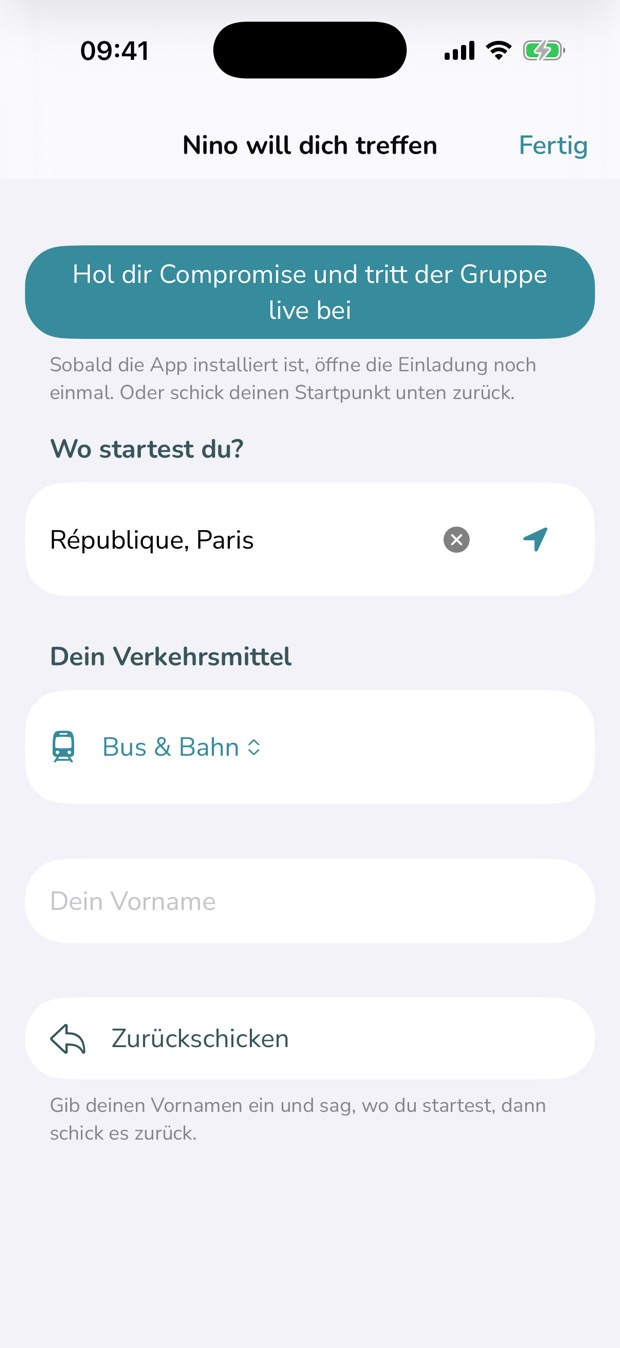
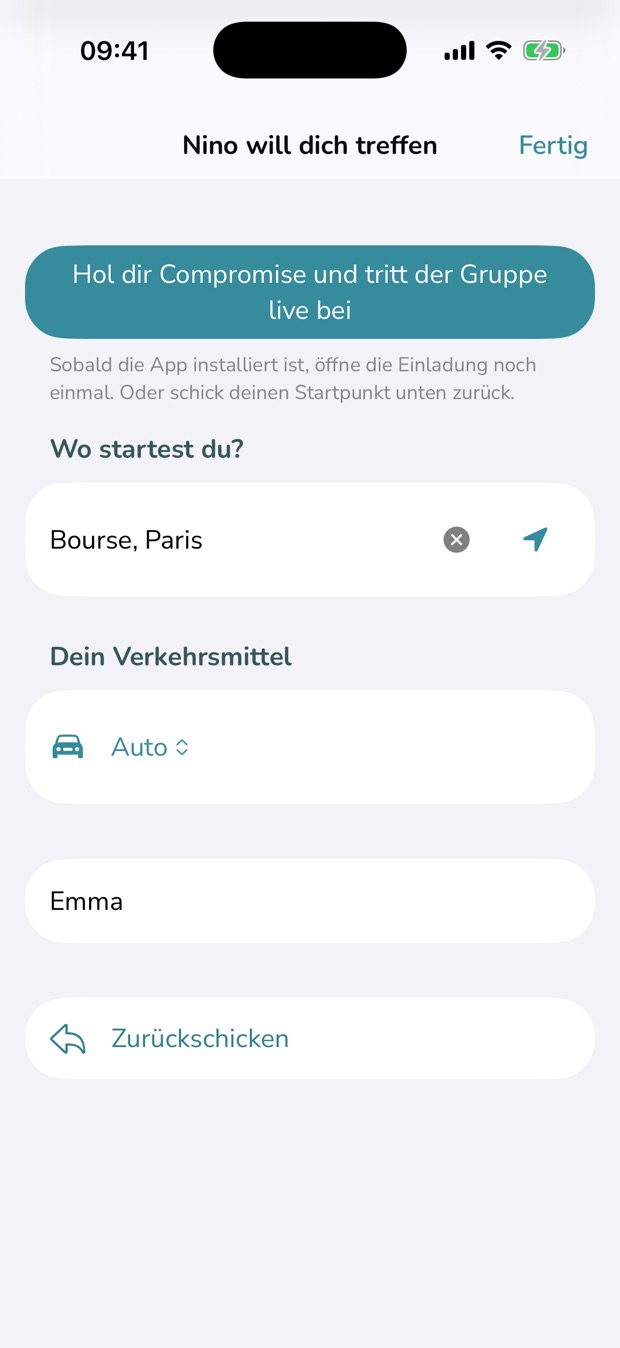
Groups (option D): Lisa joins with the app, Emma answers from the link
The app phone shows the "Lisa joined the group." notification over the
four people; the form phone shows Emma's answer (Bourse, by car). A
short muted line under each phone says what happened, in every language.

Claude-Session: https://claude.ai/code/session_01DPYBVo6XJBHKjMg9L24xGH

diff --git a/fr/index.html b/fr/index.html
@@ -181,8 +181,8 @@ layout: null
       <div class="visual" id="shot-group">
         <!-- Screenshot slots: img/fr/group-live.jpg, 620 × 1182 (the app, cropped), and img/fr/group.jpg, 620 × 1348 (the App Clip form, shown to the same height) -->
         <div class="phones">
-          <figure><figcaption>Avec l’appli</figcaption><div class="phone"><div class="screen short"><div class="island"></div><img class="shot" src="/img/fr/group-live.jpg" width="620" height="1182" alt="L’app avec un groupe synchronisé via iCloud, quatre personnes et la première adresse" onload="this.closest('.visual').classList.add('has-shot')" onerror="this.remove()"></div></div></figure>
-          <figure><figcaption>Sans l’appli</figcaption><div class="phone"><div class="screen short"><div class="island"></div><img class="shot" src="/img/fr/group.jpg" width="620" height="1348" alt="Le formulaire qu’un ami voit depuis le lien d’invitation, sans l’app" onload="this.closest('.visual').classList.add('has-shot')" onerror="this.remove()"></div></div></figure>
+          <figure><figcaption>Avec l’appli</figcaption><div class="phone"><div class="screen short"><div class="island"></div><img class="shot" src="/img/fr/group-live.jpg" width="620" height="1182" alt="L’app : une notification dit que Lisa a rejoint le groupe, au-dessus des quatre personnes et du groupe synchronisé via iCloud" onload="this.closest('.visual').classList.add('has-shot')" onerror="this.remove()"></div></div><p class="phone-note">Lisa a rejoint le groupe ; son départ s’affiche sur chaque téléphone.</p></figure>
+          <figure><figcaption>Sans l’appli</figcaption><div class="phone"><div class="screen short"><div class="island"></div><img class="shot" src="/img/fr/group.jpg" width="620" height="1348" alt="Le formulaire qu’un ami voit depuis le lien, rempli par Emma : son départ et son moyen de transport" onload="this.closest('.visual').classList.add('has-shot')" onerror="this.remove()"></div></div><p class="phone-note">Emma a répondu depuis le lien.</p></figure>
         </div>
         <div class="panel group" role="img" aria-label="Illustration : un lien d’invitation envoyé à un groupe ; Nino a rejoint avec l’app, Léa a répondu depuis le lien.">
           <div class="invite"><svg viewBox="0 0 24 24" fill="none" stroke="currentColor" stroke-width="2" stroke-linecap="round" aria-hidden="true"><path d="M10 14a4 4 0 0 0 5.7 0l3-3a4 4 0 0 0-5.7-5.7l-1 1"/><path d="M14 10a4 4 0 0 0-5.7 0l-3 3a4 4 0 0 0 5.7 5.7l1-1"/></svg><span>Apéro vendredi · lien d’invitation</span></div>

diff --git a/de/index.html b/de/index.html
@@ -181,8 +181,8 @@ layout: null
       <div class="visual" id="shot-group">
         <!-- Screenshot slots: img/de/group-live.jpg, 620 × 1182 (the app, cropped), and img/de/group.jpg, 620 × 1348 (the App Clip form, shown to the same height) -->
         <div class="phones">
-          <figure><figcaption>Mit der App</figcaption><div class="phone"><div class="screen short"><div class="island"></div><img class="shot" src="/img/de/group-live.jpg" width="620" height="1182" alt="Die App mit einer über iCloud synchronisierten Gruppe, vier Personen und dem ersten Treffpunkt" onload="this.closest('.visual').classList.add('has-shot')" onerror="this.remove()"></div></div></figure>
-          <figure><figcaption>Ohne die App</figcaption><div class="phone"><div class="screen short"><div class="island"></div><img class="shot" src="/img/de/group.jpg" width="620" height="1348" alt="Das Formular, das Freunde über den Einladungslink sehen, ohne die App" onload="this.closest('.visual').classList.add('has-shot')" onerror="this.remove()"></div></div></figure>
+          <figure><figcaption>Mit der App</figcaption><div class="phone"><div class="screen short"><div class="island"></div><img class="shot" src="/img/de/group-live.jpg" width="620" height="1182" alt="Die App: Eine Mitteilung meldet, dass Lisa der Gruppe beigetreten ist, über den vier Personen und der über iCloud synchronisierten Gruppe" onload="this.closest('.visual').classList.add('has-shot')" onerror="this.remove()"></div></div><p class="phone-note">Lisa ist dabei; ihr Startpunkt erscheint auf jedem Handy.</p></figure>
+          <figure><figcaption>Ohne die App</figcaption><div class="phone"><div class="screen short"><div class="island"></div><img class="shot" src="/img/de/group.jpg" width="620" height="1348" alt="Das Formular, das Freunde über den Link sehen, von Emma ausgefüllt: ihr Startpunkt und wie sie unterwegs ist" onload="this.closest('.visual').classList.add('has-shot')" onerror="this.remove()"></div></div><p class="phone-note">Emma hat über den Link geantwortet.</p></figure>
         </div>
         <div class="panel group" role="img" aria-label="Illustration: ein Einladungslink an eine Gruppe; Nino ist mit der App beigetreten, Léa hat über den Link geantwortet.">
           <div class="invite"><svg viewBox="0 0 24 24" fill="none" stroke="currentColor" stroke-width="2" stroke-linecap="round" aria-hidden="true"><path d="M10 14a4 4 0 0 0 5.7 0l3-3a4 4 0 0 0-5.7-5.7l-1 1"/><path d="M14 10a4 4 0 0 0-5.7 0l-3 3a4 4 0 0 0 5.7 5.7l1-1"/></svg><span>Freitagsbier · Einladungslink</span></div>

diff --git a/es/index.html b/es/index.html
@@ -181,8 +181,8 @@ layout: null
       <div class="visual" id="shot-group">
         <!-- Screenshot slots: img/es/group-live.jpg, 620 × 1182 (the app, cropped), and img/es/group.jpg, 620 × 1348 (the App Clip form, shown to the same height) -->
         <div class="phones">
-          <figure><figcaption>Con la app</figcaption><div class="phone"><div class="screen short"><div class="island"></div><img class="shot" src="/img/es/group-live.jpg" width="620" height="1182" alt="La app con un grupo sincronizado con iCloud, cuatro personas y el primer punto de encuentro" onload="this.closest('.visual').classList.add('has-shot')" onerror="this.remove()"></div></div></figure>
-          <figure><figcaption>Sin la app</figcaption><div class="phone"><div class="screen short"><div class="island"></div><img class="shot" src="/img/es/group.jpg" width="620" height="1348" alt="El formulario que ve un amigo desde el enlace de invitación, sin la app" onload="this.closest('.visual').classList.add('has-shot')" onerror="this.remove()"></div></div></figure>
+          <figure><figcaption>Con la app</figcaption><div class="phone"><div class="screen short"><div class="island"></div><img class="shot" src="/img/es/group-live.jpg" width="620" height="1182" alt="La app: una notificación dice que Lisa se ha unido al grupo, encima de las cuatro personas y del grupo sincronizado con iCloud" onload="this.closest('.visual').classList.add('has-shot')" onerror="this.remove()"></div></div><p class="phone-note">Lisa se ha unido; su punto de partida aparece en todos los teléfonos.</p></figure>
+          <figure><figcaption>Sin la app</figcaption><div class="phone"><div class="screen short"><div class="island"></div><img class="shot" src="/img/es/group.jpg" width="620" height="1348" alt="El formulario que ve un amigo desde el enlace, rellenado por Emma: su punto de partida y cómo se mueve" onload="this.closest('.visual').classList.add('has-shot')" onerror="this.remove()"></div></div><p class="phone-note">Emma ha respondido desde el enlace.</p></figure>
         </div>
         <div class="panel group" role="img" aria-label="Ilustración: un enlace de invitación enviado a un grupo; Nino se ha unido con la app y Léa ha respondido desde el enlace.">
           <div class="invite"><svg viewBox="0 0 24 24" fill="none" stroke="currentColor" stroke-width="2" stroke-linecap="round" aria-hidden="true"><path d="M10 14a4 4 0 0 0 5.7 0l3-3a4 4 0 0 0-5.7-5.7l-1 1"/><path d="M14 10a4 4 0 0 0-5.7 0l-3 3a4 4 0 0 0 5.7 5.7l1-1"/></svg><span>Cañas del viernes · invitación</span></div>

diff --git a/_includes/landing-en.html b/_includes/landing-en.html
@@ -192,8 +192,8 @@
       <div class="visual" id="shot-group">
         <!-- Screenshot slots: img/en/group-live.jpg, 620 × 1182 (the app, cropped), and img/en/group.jpg, 620 × 1348 (the App Clip form, shown to the same height) -->
         <div class="phones">
-          <figure><figcaption>With the app</figcaption><div class="phone"><div class="screen short"><div class="island"></div><img class="shot" src="/img/en/group-live.jpg" width="620" height="1182" alt="The app with a group synced through iCloud, four people and the first spot" onload="this.closest('.visual').classList.add('has-shot')" onerror="this.remove()"></div></div></figure>
-          <figure><figcaption>Without the app</figcaption><div class="phone"><div class="screen short"><div class="island"></div><img class="shot" src="/img/en/group.jpg" width="620" height="1348" alt="The form a friend sees from the invite link, without the app" onload="this.closest('.visual').classList.add('has-shot')" onerror="this.remove()"></div></div></figure>
+          <figure><figcaption>With the app</figcaption><div class="phone"><div class="screen short"><div class="island"></div><img class="shot" src="/img/en/group-live.jpg" width="620" height="1182" alt="The app: a notification says Lisa joined the group, above the four people and the group synced through iCloud" onload="this.closest('.visual').classList.add('has-shot')" onerror="this.remove()"></div></div><p class="phone-note">Lisa joined; her start is on every phone.</p></figure>
+          <figure><figcaption>Without the app</figcaption><div class="phone"><div class="screen short"><div class="island"></div><img class="shot" src="/img/en/group.jpg" width="620" height="1348" alt="The form a friend sees from the link, filled in by Emma: her start and how she travels" onload="this.closest('.visual').classList.add('has-shot')" onerror="this.remove()"></div></div><p class="phone-note">Emma answered from the link.</p></figure>
         </div>
         <div class="panel group" role="img" aria-label="Illustration: an invite link sent to a group; Nino joined with the app, Léa answered from the link.">
           <div class="invite"><svg viewBox="0 0 24 24" fill="none" stroke="currentColor" stroke-width="2" stroke-linecap="round" aria-hidden="true"><path d="M10 14a4 4 0 0 0 5.7 0l3-3a4 4 0 0 0-5.7-5.7l-1 1"/><path d="M14 10a4 4 0 0 0-5.7 0l-3 3a4 4 0 0 0 5.7 5.7l1-1"/></svg><span>Friday drinks · invite link</span></div>

diff --git a/landing.css b/landing.css
@@ -182,6 +182,7 @@ section[aria-labelledby="sun-title"] .feature li::before { content: "\2600\FE0F"
 #groups .feature .copy { max-width: 38ch; }
 .phones figure { margin: 0; display: grid; gap: 10px; }
 .phones figcaption { font-size: 15px; font-weight: 650; color: var(--muted); text-align: center; }
+.phones .phone-note { margin: 0; font-size: 13px; color: var(--muted); text-align: center; }
 .phones .phone { border-radius: 34px; padding: 8px; }
 .phones .screen.short { aspect-ratio: 620 / 1182; border-radius: 27px; }
 .phones .screen img.shot { object-position: top; }
